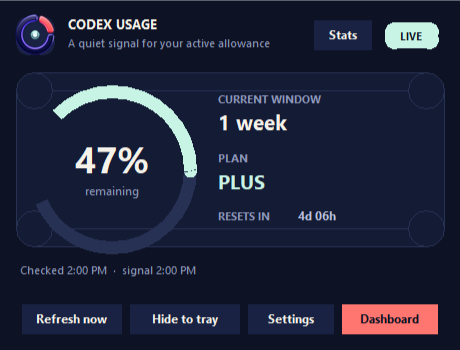
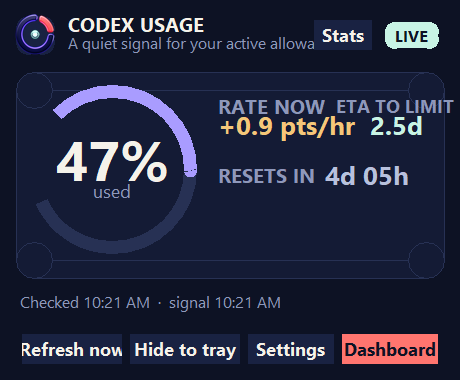
Refresh release screenshots and harden live ETA

diff --git a/codex_usage_counter.py b/codex_usage_counter.py
@@ -3,6 +3,7 @@ from __future__ import annotations
 import ctypes
 import ctypes.wintypes as wintypes
 import json
+import math
 import os
 import queue
 import subprocess
@@ -32,6 +33,7 @@ CONFIG_FILE = CONFIG_DIR / "settings.json"
 HISTORY_FILE = CONFIG_DIR / "usage_history.json"
 HISTORY_RETENTION_DAYS = 30
 HISTORY_MAX_POINTS = 60000
+ACTIVE_SIGNAL_MAX_AGE_SECONDS = 10 * 60
 STARTUP_SHORTCUT_NAME = "Codex Usage Counter.lnk"
 
 COLORS = {
@@ -66,23 +68,37 @@ def startup_shortcut_path() -> Path:
     return base / "Microsoft" / "Windows" / "Start Menu" / "Programs" / "Startup" / STARTUP_SHORTCUT_NAME
 
 
+_SHOW_EVENT_NAME = "Local\\CodexUsageCounter.ShowWindow"
+_EVENT_MODIFY_STATE = 0x0002
+_WAIT_OBJECT_0 = 0x00000000
 _instance_mutex: Optional[int] = None
+_show_event: Optional[int] = None
+
+
+def signal_existing_instance() -> None:
+    if os.name != "nt":
+        return
+    event = _kernel32.OpenEventW(_EVENT_MODIFY_STATE, False, _SHOW_EVENT_NAME)
+    if event:
+        _kernel32.SetEvent(event)
+        _kernel32.CloseHandle(event)
 
 
 def acquire_single_instance() -> bool:
     """Keep startup shortcuts and manual launches from creating duplicate counters."""
 
-    global _instance_mutex
+    global _instance_mutex, _show_event
     if os.name != "nt":
         return True
-    kernel32 = ctypes.windll.kernel32
-    handle = kernel32.CreateMutexW(None, False, "Local\\CodexUsageCounter")
+    handle = _kernel32.CreateMutexW(None, False, "Local\\CodexUsageCounter")
     if not handle:
         return True
-    if kernel32.GetLastError() == 183:  # ERROR_ALREADY_EXISTS
-        kernel32.CloseHandle(handle)
+    if _kernel32.GetLastError() == 183:  # ERROR_ALREADY_EXISTS
+        _kernel32.CloseHandle(handle)
+        signal_existing_instance()
         return False
     _instance_mutex = handle
+    _show_event = _kernel32.CreateEventW(None, False, False, _SHOW_EVENT_NAME)
     return True
 
 
@@ -366,7 +382,7 @@ class UsageSnapshot:
 
     @property
     def is_stale(self) -> bool:
-        return bool(self.timestamp and time.time() - self.timestamp > 30 * 60)
+        return bool(self.timestamp and time.time() - self.timestamp > ACTIVE_SIGNAL_MAX_AGE_SECONDS)
 
 
 class CodexTelemetryReader:
@@ -537,7 +553,16 @@ if os.name == "nt":
     # ctypes defaults Win32 function results to a 32-bit c_long. Explicitly
     # declare handle-returning APIs so 64-bit HWND/HICON values are not
     # truncated before they are handed to the Windows shell.
+    _kernel32.CreateMutexW.argtypes = [ctypes.c_void_p, wintypes.BOOL, wintypes.LPCWSTR]
     _kernel32.CreateMutexW.restype = wintypes.HANDLE
+    _kernel32.CreateEventW.argtypes = [ctypes.c_void_p, wintypes.BOOL, wintypes.BOOL, wintypes.LPCWSTR]
+    _kernel32.CreateEventW.restype = wintypes.HANDLE
+    _kernel32.OpenEventW.argtypes = [wintypes.DWORD, wintypes.BOOL, wintypes.LPCWSTR]
+    _kernel32.OpenEventW.restype = wintypes.HANDLE
+    _kernel32.SetEvent.argtypes = [wintypes.HANDLE]
+    _kernel32.SetEvent.restype = wintypes.BOOL
+    _kernel32.WaitForSingleObject.argtypes = [wintypes.HANDLE, wintypes.DWORD]
+    _kernel32.WaitForSingleObject.restype = wintypes.DWORD
     _kernel32.CloseHandle.argtypes = [wintypes.HANDLE]
     _kernel32.CloseHandle.restype = wintypes.BOOL
     _kernel32.GetModuleHandleW.argtypes = [wintypes.LPCWSTR]
@@ -577,6 +602,8 @@ if os.name == "nt":
     _user32.UnregisterClassW.restype = wintypes.BOOL
     _user32.GetCursorPos.argtypes = [ctypes.POINTER(_POINT)]
     _user32.GetCursorPos.restype = wintypes.BOOL
+    _user32.RegisterWindowMessageW.argtypes = [wintypes.LPCWSTR]
+    _user32.RegisterWindowMessageW.restype = wintypes.UINT
     _user32.PostMessageW.argtypes = [wintypes.HWND, wintypes.UINT, wintypes.WPARAM, wintypes.LPARAM]
     _user32.PostMessageW.restype = wintypes.BOOL
     _user32.DefWindowProcW.argtypes = [wintypes.HWND, wintypes.UINT, wintypes.WPARAM, wintypes.LPARAM]
@@ -608,6 +635,7 @@ class TrayIcon:
         self._tooltip = ""
         self._class_name = f"CodexUsageCounterTray_{os.getpid()}"
         self._callback_message = 0x8000 + 47
+        self._taskbar_created_message = 0
         self._wnd_proc: Any = None
 
     @property
@@ -623,8 +651,12 @@ class TrayIcon:
 
     def _run(self, tooltip: str) -> None:
         assert os.name == "nt"
+        self._taskbar_created_message = _user32.RegisterWindowMessageW("TaskbarCreated")
 
         def wnd_proc(hwnd: int, msg: int, wparam: int, lparam: int) -> int:
+            if msg == self._taskbar_created_message:
+                self._add_icon(self._tooltip)
+                return 0
             if msg == self._callback_message:
                 event = int(lparam)
                 if event in (0x0202, 0x0203):  # left up / double click
@@ -970,6 +1002,7 @@ class UsageApp:
         self.root.after(200, self.refresh_async)
         self.refresh_after_id = self.root.after(self.settings.refresh_interval_seconds * 1000, self._poll_refresh)
         self.root.after(30000, self._refresh_countdown)
+        self.root.after(250, self._poll_show_request)
 
     def _initial_geometry(self) -> str:
         try:
@@ -1024,17 +1057,29 @@ class UsageApp:
         rate_points = self.history.rate_series(period_hours, points)
         if not rate_points:
             return None
-        return rate_points[-1]["rate_per_hour"]
+        rate = rate_points[-1]["rate_per_hour"]
+        return rate if math.isfinite(rate) else None
 
     @staticmethod
     def _format_rate(rate: Optional[float]) -> str:
-        return f"{rate:+.1f} pts/hr" if rate is not None else "Collecting"
+        return f"{rate:+.1f} pts/hr" if rate is not None and math.isfinite(rate) else "Collecting"
 
     @staticmethod
     def _format_eta(current: Optional[float], rate: Optional[float]) -> str:
-        if current is None or rate is None or rate <= 0 or current >= 100:
+        if (
+            current is None
+            or rate is None
+            or not math.isfinite(current)
+            or not math.isfinite(rate)
+            or rate <= 0
+            or current >= 100
+        ):
             return "n/a"
         hours_to_limit = (100 - current) / rate
+        if not math.isfinite(hours_to_limit):
+            return "n/a"
+        if hours_to_limit >= 24 * 365:
+            return ">1y"
         if hours_to_limit < 1:
             return f"{max(1, int(round(hours_to_limit * 60)))}m"
         if hours_to_limit < 24:
@@ -1175,33 +1220,34 @@ class UsageApp:
         self.canvas.create_text(112, 158, text=center_value, fill=COLORS["text"], font=("Segoe UI", 28, "bold"))
         self.canvas.create_text(112, 190, text=self._display_label(), fill=COLORS["muted"], font=("Segoe UI", 9))
 
-        current_rate = self._current_rate() if snapshot.has_data else None
-        self.canvas.create_text(218, 105, text="RATE NOW", anchor="w", fill=COLORS["muted"], font=("Segoe UI", 8, "bold"))
+        current_rate = self._current_rate() if snapshot.has_data and not snapshot.is_stale else None
+        eta_value = "" if not snapshot.has_data or snapshot.is_stale else self._format_eta(snapshot.used_percent, current_rate)
+        self.canvas.create_text(218, 105, text="RATE NOW", anchor="w", fill=COLORS["muted"], font=("Segoe UI", 10, "bold"))
         self.canvas.create_text(
             218,
             124,
             text=self._format_rate(current_rate),
             anchor="w",
             fill=COLORS["amber"],
-            font=("Segoe UI", 9, "bold"),
+            font=("Segoe UI", 13, "bold"),
         )
-        self.canvas.create_text(330, 105, text="ETA TO LIMIT", anchor="w", fill=COLORS["muted"], font=("Segoe UI", 8, "bold"))
+        self.canvas.create_text(336, 105, text="ETA TO LIMIT", anchor="w", fill=COLORS["muted"], font=("Segoe UI", 9, "bold"))
         self.canvas.create_text(
-            330,
+            370,
             124,
-            text=self._format_eta(snapshot.used_percent, current_rate),
+            text=eta_value,
             anchor="w",
             fill=COLORS["mint"],
-            font=("Segoe UI", 9, "bold"),
+            font=("Segoe UI", 13, "bold"),
         )
-        self.canvas.create_text(218, 174, text="RESETS IN", anchor="w", fill=COLORS["muted"], font=("Segoe UI", 8, "bold"))
+        self.canvas.create_text(218, 174, text="RESETS IN", anchor="w", fill=COLORS["muted"], font=("Segoe UI", 10, "bold"))
         self.canvas.create_text(
-            298,
+            325,
             174,
             text=format_countdown(snapshot.resets_at),
             anchor="w",
             fill=COLORS["soft"],
-            font=("Segoe UI", 9, "bold"),
+            font=("Segoe UI", 13, "bold"),
         )
 
         if snapshot.error:
@@ -1232,6 +1278,14 @@ class UsageApp:
         if self.root.winfo_exists():
             self._draw()
             self.root.after(30000, self._refresh_countdown)
+
+    def _poll_show_request(self) -> None:
+        if not self.root.winfo_exists():
+            return
+        if os.name == "nt" and _show_event:
+            if _kernel32.WaitForSingleObject(_show_event, 0) == _WAIT_OBJECT_0:
+                self.show_window()
+        self.root.after(250, self._poll_show_request)
 
     def _poll_refresh(self) -> None:
         self.refresh_after_id = None
@@ -1944,11 +1998,19 @@ class UsageApp:
         dialog.grab_set()
 
     def quit(self) -> None:
+        global _instance_mutex, _show_event
         try:
             self.tray_popup.close()
             self.close_statistics()
             self.tray.stop()
         finally:
+            if os.name == "nt":
+                if _show_event:
+                    _kernel32.CloseHandle(_show_event)
+                    _show_event = None
+                if _instance_mutex:
+                    _kernel32.CloseHandle(_instance_mutex)
+                    _instance_mutex = None
             self.root.destroy()
 
     def run(self) -> None:

diff --git a/README.md b/README.md
@@ -6,7 +6,7 @@ A small Windows desktop counter that keeps your current Codex usage visible with
 
 ## What it does
 
-- Shows the latest local Codex rate-limit percentage, usage window, plan, reset countdown, and signal state.
+- Shows the latest local Codex rate-limit percentage, reset countdown, and signal state.
 - Displays the current number directly in the notification-area tray icon, so it is readable without hovering.
 - Shows a custom in-app tray milestone popup above the Windows notification area; it does not use Windows toast or balloon notifications.
 - Polls local usage every two minutes by default; **Refresh now** reads immediately outside that schedule.
@@ -27,11 +27,11 @@ The executable is self-contained and does not require Python to be installed.
 
 ### Counter window
 
-![Codex Usage Counter window](screenshots/counter.png)
+![Codex Usage Counter window with live rate and ETA](screenshots/counter.png)
 
 ### Statistics view
 
-![Codex Usage Counter statistics view](screenshots/statistics.png)
+![Codex Usage Counter seven-day usage and rate statistics](screenshots/statistics.png)
 
 ## How the data is read
 
